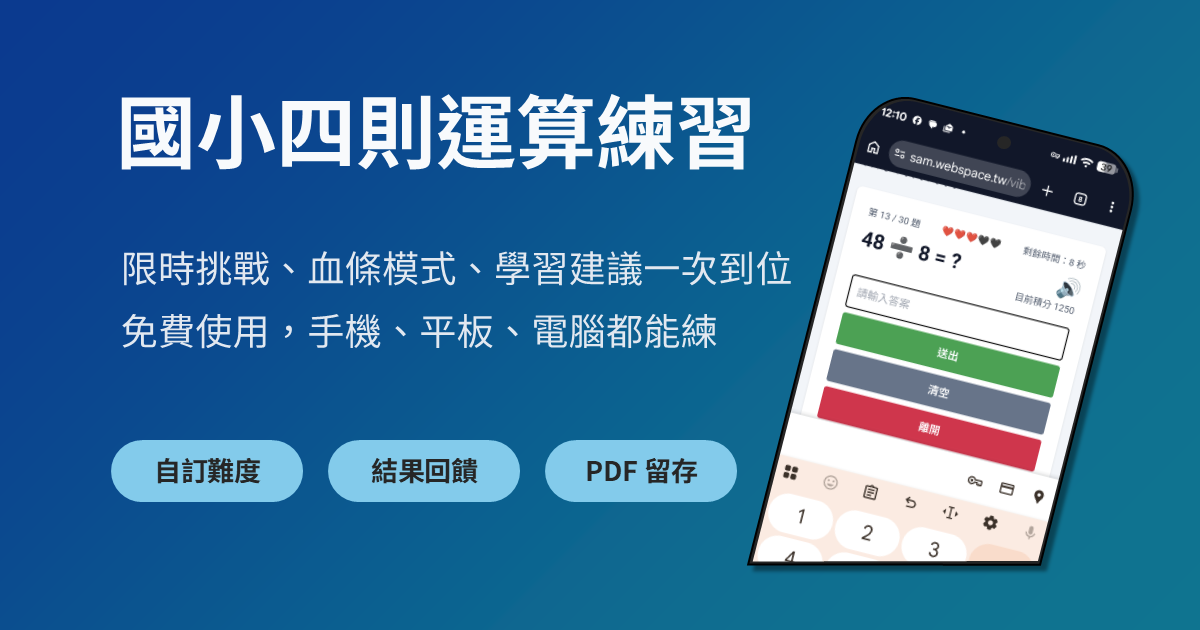
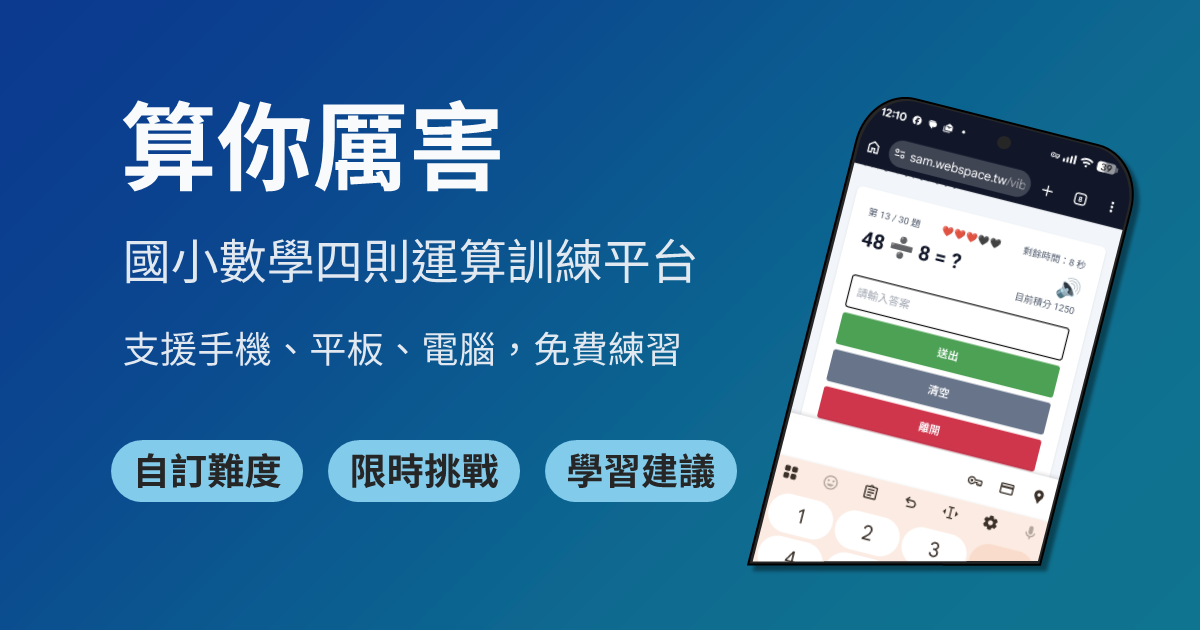
docs: 更新品牌名稱與社群分享圖設計稿

diff --git a/math-practice/index.html b/math-practice/index.html
@@ -3,35 +3,35 @@
 <head>
   <meta charset="UTF-8" />
   <meta name="viewport" content="width=device-width, initial-scale=1.0" />
-  <title>數學計算練習｜國小四則運算線上練習工具</title>
+  <title>算你厲害｜國小數學四則運算訓練平台</title>
   <meta name="description" content="免費的國小數學四則運算線上練習工具，支援加減乘除、限時挑戰、血條模式、學習建議與作答結果下載 PDF，適合家長陪孩子在家練習。" />
   <meta name="robots" content="index,follow,max-image-preview:large" />
-  <meta name="application-name" content="數學計算練習" />
+  <meta name="application-name" content="算你厲害" />
   <meta name="theme-color" content="#0f172a" />
   <link rel="canonical" href="https://sam.webspace.tw/vibe-lab/math-practice/" />
   <meta property="og:locale" content="zh_TW" />
   <meta property="fb:app_id" content="1099372750454457" />
   <meta property="og:type" content="website" />
-  <meta property="og:title" content="數學計算練習｜國小四則運算線上練習工具" />
+  <meta property="og:title" content="算你厲害｜國小數學四則運算訓練平台" />
   <meta property="og:description" content="免費的國小數學四則運算線上練習工具，支援加減乘除、限時挑戰、血條模式、學習建議與作答結果下載 PDF。" />
   <meta property="og:url" content="https://sam.webspace.tw/vibe-lab/math-practice/" />
-  <meta property="og:site_name" content="數學計算練習" />
+  <meta property="og:site_name" content="算你厲害" />
   <meta property="og:image" content="https://sam.webspace.tw/vibe-lab/math-practice/images/social_preview_1200x630.png" />
   <meta property="og:image:secure_url" content="https://sam.webspace.tw/vibe-lab/math-practice/images/social_preview_1200x630.png" />
   <meta property="og:image:type" content="image/png" />
   <meta property="og:image:width" content="1200" />
   <meta property="og:image:height" content="630" />
-  <meta property="og:image:alt" content="數學計算練習網站預覽圖，顯示關卡設定與作答介面示意" />
+  <meta property="og:image:alt" content="算你厲害網站預覽圖，顯示關卡設定與作答介面示意" />
   <meta name="twitter:card" content="summary_large_image" />
-  <meta name="twitter:title" content="數學計算練習｜國小四則運算線上練習工具" />
+  <meta name="twitter:title" content="算你厲害｜國小數學四則運算訓練平台" />
   <meta name="twitter:description" content="免費的國小數學四則運算線上練習工具，支援加減乘除、限時挑戰、血條模式、學習建議與作答結果下載 PDF。" />
   <meta name="twitter:image" content="https://sam.webspace.tw/vibe-lab/math-practice/images/social_preview_1200x630.png" />
-  <meta name="twitter:image:alt" content="數學計算練習網站預覽圖，顯示關卡設定與作答介面示意" />
+  <meta name="twitter:image:alt" content="算你厲害網站預覽圖，顯示關卡設定與作答介面示意" />
   <script type="application/ld+json">
     {
       "@context": "https://schema.org",
       "@type": "WebApplication",
-      "name": "數學計算練習",
+      "name": "算你厲害",
       "description": "免費的國小數學四則運算線上練習工具，可自訂題型與難度，並提供學習建議與作答結果下載。",
       "url": "https://sam.webspace.tw/vibe-lab/math-practice/",
       "applicationCategory": "EducationalApplication",
@@ -86,9 +86,9 @@
   <main class="mx-auto max-w-3xl px-4 py-8">
     <section id="setupPanel" class="rounded-lg bg-white p-6 shadow">
       <figure id="homeBanner" class="mb-6 overflow-hidden rounded-lg border border-slate-200 bg-white shadow">
-        <img src="./images/social_preview_1200x630.png" alt="數學計算練習首頁 Banner 圖" class="w-full" decoding="async" />
+        <img src="./images/social_preview_1200x630.png" alt="算你厲害首頁 Banner 圖" class="w-full" decoding="async" />
       </figure>
-      <h1 class="mb-6 text-2xl font-bold">數學計算練習｜關卡設定</h1>
+      <h1 class="mb-6 text-2xl font-bold">算你厲害｜關卡設定</h1>
       <div class="grid gap-4 sm:grid-cols-2">
         <fieldset class="flex flex-col gap-2 sm:col-span-2">
           <legend class="text-sm font-medium">題目種類（至少必須選一種，可複選）</legend>
@@ -493,7 +493,7 @@
     }
 
     function buildPdfFilename(timestampMs) {
-      return `數學計算練習-${formatFileTimestamp(timestampMs)}.pdf`;
+      return `算你厲害-${formatFileTimestamp(timestampMs)}.pdf`;
     }
 
     function getPdfTimestamp() {

diff --git a/math-practice/user-guide.html b/math-practice/user-guide.html
@@ -3,37 +3,37 @@
 <head>
   <meta charset="UTF-8" />
   <meta name="viewport" content="width=device-width, initial-scale=1.0" />
-  <title>操作說明｜數學計算練習</title>
-  <meta name="description" content="給初次使用者的數學計算練習操作說明，包含設定、作答、結果與下載 PDF 步驟。" />
+  <title>操作說明｜算你厲害</title>
+  <meta name="description" content="給初次使用者的算你厲害操作說明，包含設定、作答、結果與下載 PDF 步驟。" />
   <meta name="robots" content="index,follow,max-image-preview:large" />
   <link rel="canonical" href="https://sam.webspace.tw/vibe-lab/math-practice/user-guide.html" />
   <meta property="og:locale" content="zh_TW" />
   <meta property="fb:app_id" content="1099372750454457" />
   <meta property="og:type" content="article" />
-  <meta property="og:title" content="操作說明｜數學計算練習" />
-  <meta property="og:description" content="給初次使用者的數學計算練習操作說明，包含設定、作答、結果與下載 PDF 步驟。" />
+  <meta property="og:title" content="操作說明｜算你厲害" />
+  <meta property="og:description" content="給初次使用者的算你厲害操作說明，包含設定、作答、結果與下載 PDF 步驟。" />
   <meta property="og:url" content="https://sam.webspace.tw/vibe-lab/math-practice/user-guide.html" />
-  <meta property="og:site_name" content="數學計算練習" />
+  <meta property="og:site_name" content="算你厲害" />
   <meta property="og:image" content="https://sam.webspace.tw/vibe-lab/math-practice/images/social_preview_1200x630.png" />
   <meta property="og:image:secure_url" content="https://sam.webspace.tw/vibe-lab/math-practice/images/social_preview_1200x630.png" />
   <meta property="og:image:type" content="image/png" />
   <meta property="og:image:width" content="1200" />
   <meta property="og:image:height" content="630" />
-  <meta property="og:image:alt" content="數學計算練習操作說明頁預覽圖" />
+  <meta property="og:image:alt" content="算你厲害操作說明頁預覽圖" />
   <meta name="twitter:card" content="summary_large_image" />
-  <meta name="twitter:title" content="操作說明｜數學計算練習" />
-  <meta name="twitter:description" content="給初次使用者的數學計算練習操作說明，包含設定、作答、結果與下載 PDF 步驟。" />
+  <meta name="twitter:title" content="操作說明｜算你厲害" />
+  <meta name="twitter:description" content="給初次使用者的算你厲害操作說明，包含設定、作答、結果與下載 PDF 步驟。" />
   <meta name="twitter:image" content="https://sam.webspace.tw/vibe-lab/math-practice/images/social_preview_1200x630.png" />
-  <meta name="twitter:image:alt" content="數學計算練習操作說明頁預覽圖" />
+  <meta name="twitter:image:alt" content="算你厲害操作說明頁預覽圖" />
   <link rel="stylesheet" href="./styles/tailwind.css" />
 </head>
 <body class="min-h-screen bg-slate-100 text-slate-900">
   <main class="mx-auto max-w-3xl px-4 py-8">
     <section class="rounded-lg bg-white p-6 shadow">
       <figure id="guideBanner" class="mb-6 overflow-hidden rounded-lg border border-slate-200 bg-white shadow">
-        <img src="./images/social_preview_1200x630.png" alt="數學計算練習首頁 Banner 圖" class="w-full" decoding="async" />
+        <img src="./images/social_preview_1200x630.png" alt="算你厲害首頁 Banner 圖" class="w-full" decoding="async" />
       </figure>
-      <h1 class="text-2xl font-bold">數學計算練習｜操作說明</h1>
+      <h1 class="text-2xl font-bold">算你厲害｜操作說明</h1>
       <p class="mt-3 text-sm leading-relaxed text-slate-700">
         這份說明給第一次使用的家長與孩子。照著下面步驟操作，就能馬上開始練習。
       </p>

diff --git a/math-practice/docs/social/social_preview_combat_style.md b/math-practice/docs/social/social_preview_combat_style.md
@@ -1,12 +1,13 @@
 # 社群預覽圖提案：實戰型（combat style）
 
 ## 1) 目標與使用情境
-- 目標：讓使用者在 1 秒內理解這是「可立即開始」的國小四則運算練習工具。
-- 使用情境：Facebook、Threads、Twitter 分享首頁連結時的預覽大圖。
+- 目標：讓使用者在 1 秒內理解這是「可立即開始」的國小四則運算訓練平台。
+- 使用情境：Facebook、Threads、X（Twitter）分享首頁連結時的預覽大圖。
 
 ## 2) 核心訊息
-- 主標：`國小四則運算線上練習`
-- 副標：`限時挑戰、血條模式、學習建議一次到位`
+- 主標：`算你厲害`
+- 副標：`國小數學四則運算訓練平台`
+- 功能短句：`限時挑戰・血條模式・學習建議`
 
 ## 3) 視覺語言
 - 風格：乾淨、明亮、行動導向。
@@ -15,36 +16,37 @@
 
 ## 4) 版面配置（1200x630）
 - 畫布：`1200 x 630`
-- 安全區：四邊各 `60px`（重要文字與按鈕均放在安全區內）
-- 左區（文案）：`x=80~680, y=90~540`
+- 安全區：四邊各 `60px`（重要文字與裝置圖皆放在安全區內）
+- 左區（文案）：`x=80~700, y=90~540`
 - 右區（裝置圖）：`x=720~1120, y=70~560`
 - 背景：由深藍到藍綠的漸層，增加對比與辨識度。
 
 ## 5) 元件清單
-- 主標（1 行）
-- 副標（1 行）
+- 主標（1 行）：`算你厲害`
+- 副標（1 行）：`國小數學四則運算訓練平台`
 - 三個功能標籤（pill）
   - `四則運算`
   - `限時挑戰`
   - `血條模式`
 - 手機框 + 作答截圖（建議使用 `images/04_作答畫面（手機）.png`）
-- 品牌角標：`數學計算練習`
+- 品牌角標：`算你厲害`
 
 ## 6) 文案定稿
-- 主標：`國小四則運算線上練習`
-- 副標：`限時挑戰、血條模式、學習建議一次到位`
-- 輔助行（可選）：`免費使用，手機、平板、電腦都能練`
+- 主標：`算你厲害`
+- 副標：`國小數學四則運算訓練平台`
+- 功能標籤：`四則運算`、`限時挑戰`、`血條模式`
+- 輔助行（可選）：`支援手機、平板、電腦，免費練習`
 
 ## 7) 色彩與字體建議
 - 主背景：`#0B3A8F` → `#0E7490`
-- 主標文字：`#F8FAFC`
-- 副標文字：`#E2E8F0`
+- 主標文字：`#F8FAFC`（字重 800）
+- 副標文字：`#E2E8F0`（字重 600）
 - 標籤底色：`#1D4ED8`
 - 標籤文字：`#FFFFFF`
-- 建議字體：Noto Sans TC（粗體 700、一般 500）
+- 建議字體：Noto Sans TC（主標 72~84px、副標 36~42px、標籤 28~32px）
 
 ## 8) 跨平台裁切注意事項
-- Facebook/Threads/Twitter 皆以中央區域優先顯示，主標與手機截圖不可貼邊。
+- Facebook、Threads、X（Twitter）皆以中央區域優先顯示，主標與手機截圖不可貼邊。
 - 避免將重點放在左右 40px 內。
 - 文字不超過 2 行，減少小螢幕被壓縮後的可讀性問題。
 
@@ -59,5 +61,11 @@
 - [ ] 主標在手機預覽仍清晰可讀。
 - [ ] 右側裝置圖不超出安全區。
 - [ ] 三個功能標籤內容與產品實際功能一致。
+- [ ] 品牌名稱與副標一致使用「算你厲害｜國小數學四則運算訓練平台」。
 - [ ] 深淺對比足夠（文字不糊、不灰）。
-- [ ] 貼到 Facebook/Threads/Twitter 時，關鍵資訊不被裁切。
+- [ ] 貼到 Facebook、Threads、X（Twitter）時，關鍵資訊不被裁切。
+
+## 11) SEO 與分享欄位同步建議
+- `og:title`：`算你厲害｜國小數學四則運算訓練平台`
+- `twitter:title`：`算你厲害｜國小數學四則運算訓練平台`
+- 預覽圖檔仍使用：`https://sam.webspace.tw/vibe-lab/math-practice/images/social_preview_1200x630.png`

diff --git a/math-practice/README.md b/math-practice/README.md
@@ -1,4 +1,4 @@
-# 數學計算練習
+# 算你厲害
 
 ## 文件說明
 - 使用說明：本文件（`README.md`）
@@ -38,7 +38,7 @@
   2. 以 URL 檢查工具測試 `https://sam.webspace.tw/vibe-lab/math-practice/` 是否可建立索引
 
 ## 使用流程
-1. 首頁主標題顯示為 `數學計算練習｜關卡設定`。
+1. 首頁主標題顯示為 `算你厲害｜關卡設定`。
 2. 初次使用可先點擊設定頁的 `操作說明`，開啟 `user-guide.html` 查看完整新手教學。
 3. 在設定頁依序調整題目種類、加、減法出題數字、乘、除法出題範圍、答題時間限制、秒數、題目數量、血條設定、積分顯示、音效。
 4. 若要快速回到預設值，可點擊 `重置預設值`（位於 `開始練習` 右側）。
@@ -77,5 +77,5 @@
 
 ## 已知限制（PDF 匯出）
 - PDF 匯出依賴瀏覽器原生列印功能，版面會受瀏覽器版本與列印設定影響。
-- 桌面瀏覽器通常可套用 `數學計算練習-YYYYMMDD-HHmmss.pdf`；行動裝置（如 Android、iOS）可能改由瀏覽器或系統決定檔名。
+- 桌面瀏覽器通常可套用 `算你厲害-YYYYMMDD-HHmmss.pdf`；行動裝置（如 Android、iOS）可能改由瀏覽器或系統決定檔名。
 - 題目數量很多（例如 200 題）時，列印預覽與輸出時間會增加。

diff --git a/math-practice/spec.md b/math-practice/spec.md
@@ -1,4 +1,4 @@
-# 數學計算練習
+# 算你厲害
 
 ## 使用技術
 
@@ -58,7 +58,7 @@
 
 ## 關卡設定區
 
-- 頁面主標題：`數學計算練習｜關卡設定`
+- 頁面主標題：`算你厲害｜關卡設定`
 - 題目種類
   - 加法 ➕
   - 減法 ➖
@@ -241,7 +241,7 @@
   - 「下載 PDF 說明」區塊僅於結果頁畫面顯示，不列入 PDF 匯出內容。
   - 若點擊 `下載 PDF` 後未出現列印視窗，建議改用 Chrome 瀏覽器再試一次。
   - 長內容會依瀏覽器列印機制自動分頁。
-  - 桌面瀏覽器檔名格式：`數學計算練習-YYYYMMDD-HHmmss.pdf`。
+  - 桌面瀏覽器檔名格式：`算你厲害-YYYYMMDD-HHmmss.pdf`。
   - 行動裝置（如 Android、iOS）檔名可能由瀏覽器或系統列印服務決定，結果頁提供建議檔名提示供手動調整。
   - 匯出失敗時會顯示錯誤提示，不影響既有作答流程。
 - `學習建議` 區塊下方顯示「下載 PDF 說明」區塊，內容說明匯出用途（成績留存與檢視弱項）與操作方式（列印視窗選擇「儲存成 PDF」）。
